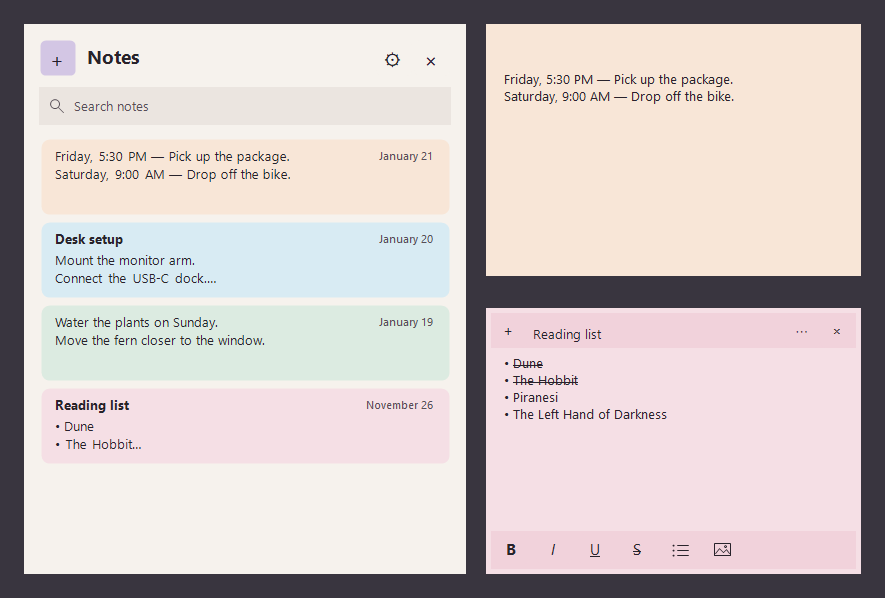
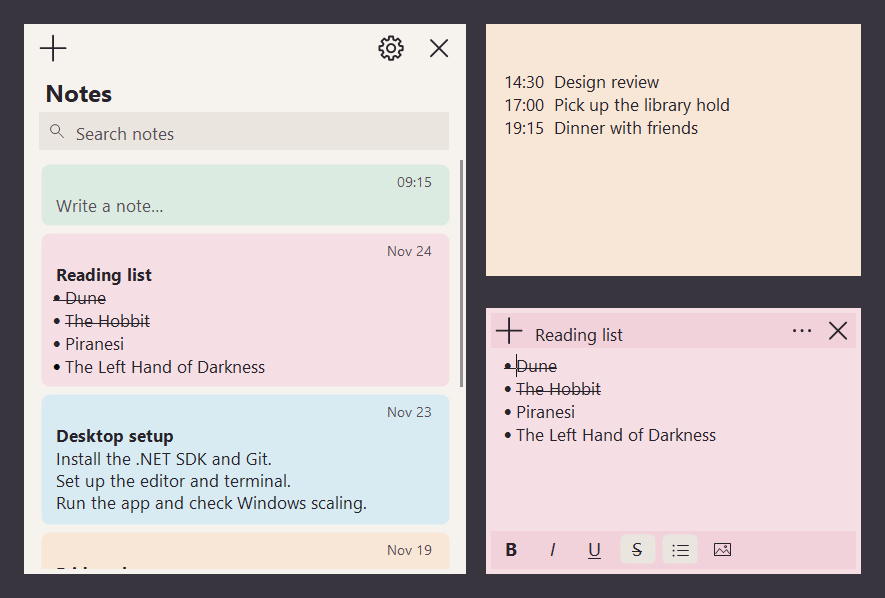
docs: refresh the notes list guide and screenshot

diff --git a/README.md b/README.md
@@ -4,7 +4,7 @@ NotepadApp is a Windows desktop app for keeping sticky notes. Write in independe
 
 ## Screenshot
 
-![NotepadApp showing the notes list alongside an active and an inactive post-it](docs/screenshots/notepadapp.png)
+![NotepadApp in light mode with the notes list on the left and inactive and active sticky notes stacked on the right](docs/screenshots/notepadapp.png)
 
 ## Download for Windows
 
@@ -24,8 +24,11 @@ The app uses C#, Windows Forms, and the .NET standard library.
 
 - Select **+** in the list or a post-it to create a note. The new note opens ready to type. To add an optional title, click the top bar or press **F2**.
 - Drag a post-it by its top bar and resize it from its edges. Each note remembers its own position and size. The top bar and formatting toolbar appear when the note has focus.
-- Select a card to open its note or bring it forward. Closing the list leaves open notes on your desktop. Use **⋯ → Notes list** from a post-it to bring back the list.
-- Drag the notes list by the empty space in the top bar. The **Notes** heading sits below the bar, above the search box.
+- Select a card to open its note or bring it forward. Hover over a card and select **⋯** to open or delete the note from the list.
+- Cards are sorted by last edit and show up to five lines of content. The top-right corner shows the creation time for notes less than 24 hours old and the month and day for older notes.
+- Scroll through the list with the mouse wheel or drag the thin scrollbar at the right edge.
+- Drag the notes list by the empty space in the top bar and resize it from the edges. The list remembers its position and size.
+- Closing the list leaves open notes on your desktop. Use **⋯ → Notes list** from a post-it to bring it back.
 - Search by title or text with **Ctrl+F**. Matches are highlighted in the cards, including rich-text previews. Press **Esc** while the search box has focus to clear it.
 - Use the formatting toolbar for bold, italic, underline, strikethrough, and bullets. Use the image icon to insert a picture at the cursor.
 - Open **⋯** for note colors, **Save all**, **Export .txt**, and **Delete note**. The export contains a title line and the note's plain text in UTF-8.
@@ -38,7 +41,7 @@ Changes save automatically after a short pause. Use **Save all** to write change
 | File | Contents |
 | --- | --- |
 | `%LOCALAPPDATA%\NotepadApp\notes.json` | Note text, formatting, embedded images, colors, timestamps, and window positions and sizes |
-| `%LOCALAPPDATA%\NotepadApp\settings.json` | Theme and delete confirmation preferences |
+| `%LOCALAPPDATA%\NotepadApp\settings.json` | Theme, delete confirmation, and the position and size of the notes list window |
 
 If the notes file cannot be read, NotepadApp reports the error and disables saving. Repair the file or move it to a backup location, then choose **Settings → Local storage → Reload**.
 
@@ -48,7 +51,7 @@ If the notes file cannot be read, NotepadApp reports the error and disables savi
 | --- | --- |
 | `Program.cs`, `NotepadApp.csproj` | Application entry point and WinForms project settings |
 | `TaskbarAppearance.cs`, `Assets/Taskbar.ico` | Windows taskbar icon and shell integration |
-| `NotesForm.cs`, `BufferedNoteList.cs`, `NoteSearch.cs` | Note list, buffered card drawing, search, and coordination of open editors |
+| `NotesForm.cs`, `BufferedNoteList.cs`, `NoteSearch.cs` | Note list, card actions, buffered pixel scrolling, search, and coordination of open editors |
 | `NotePreviewRenderer.cs`, `NoteRichContent.cs` | Cached previews that preserve formatting, images, and search highlights |
 | `NoteEditorForm.cs`, `NoteOptionsPanel.cs`, `ResizableNoteWindow.cs` | Post-it editor, in-note panel, and resizable window frame |
 | `NotesSettingsView.cs`, `AppPreferences.cs`, `NotesTheme.cs` | Settings UI, user preferences, and light/dark palettes |
